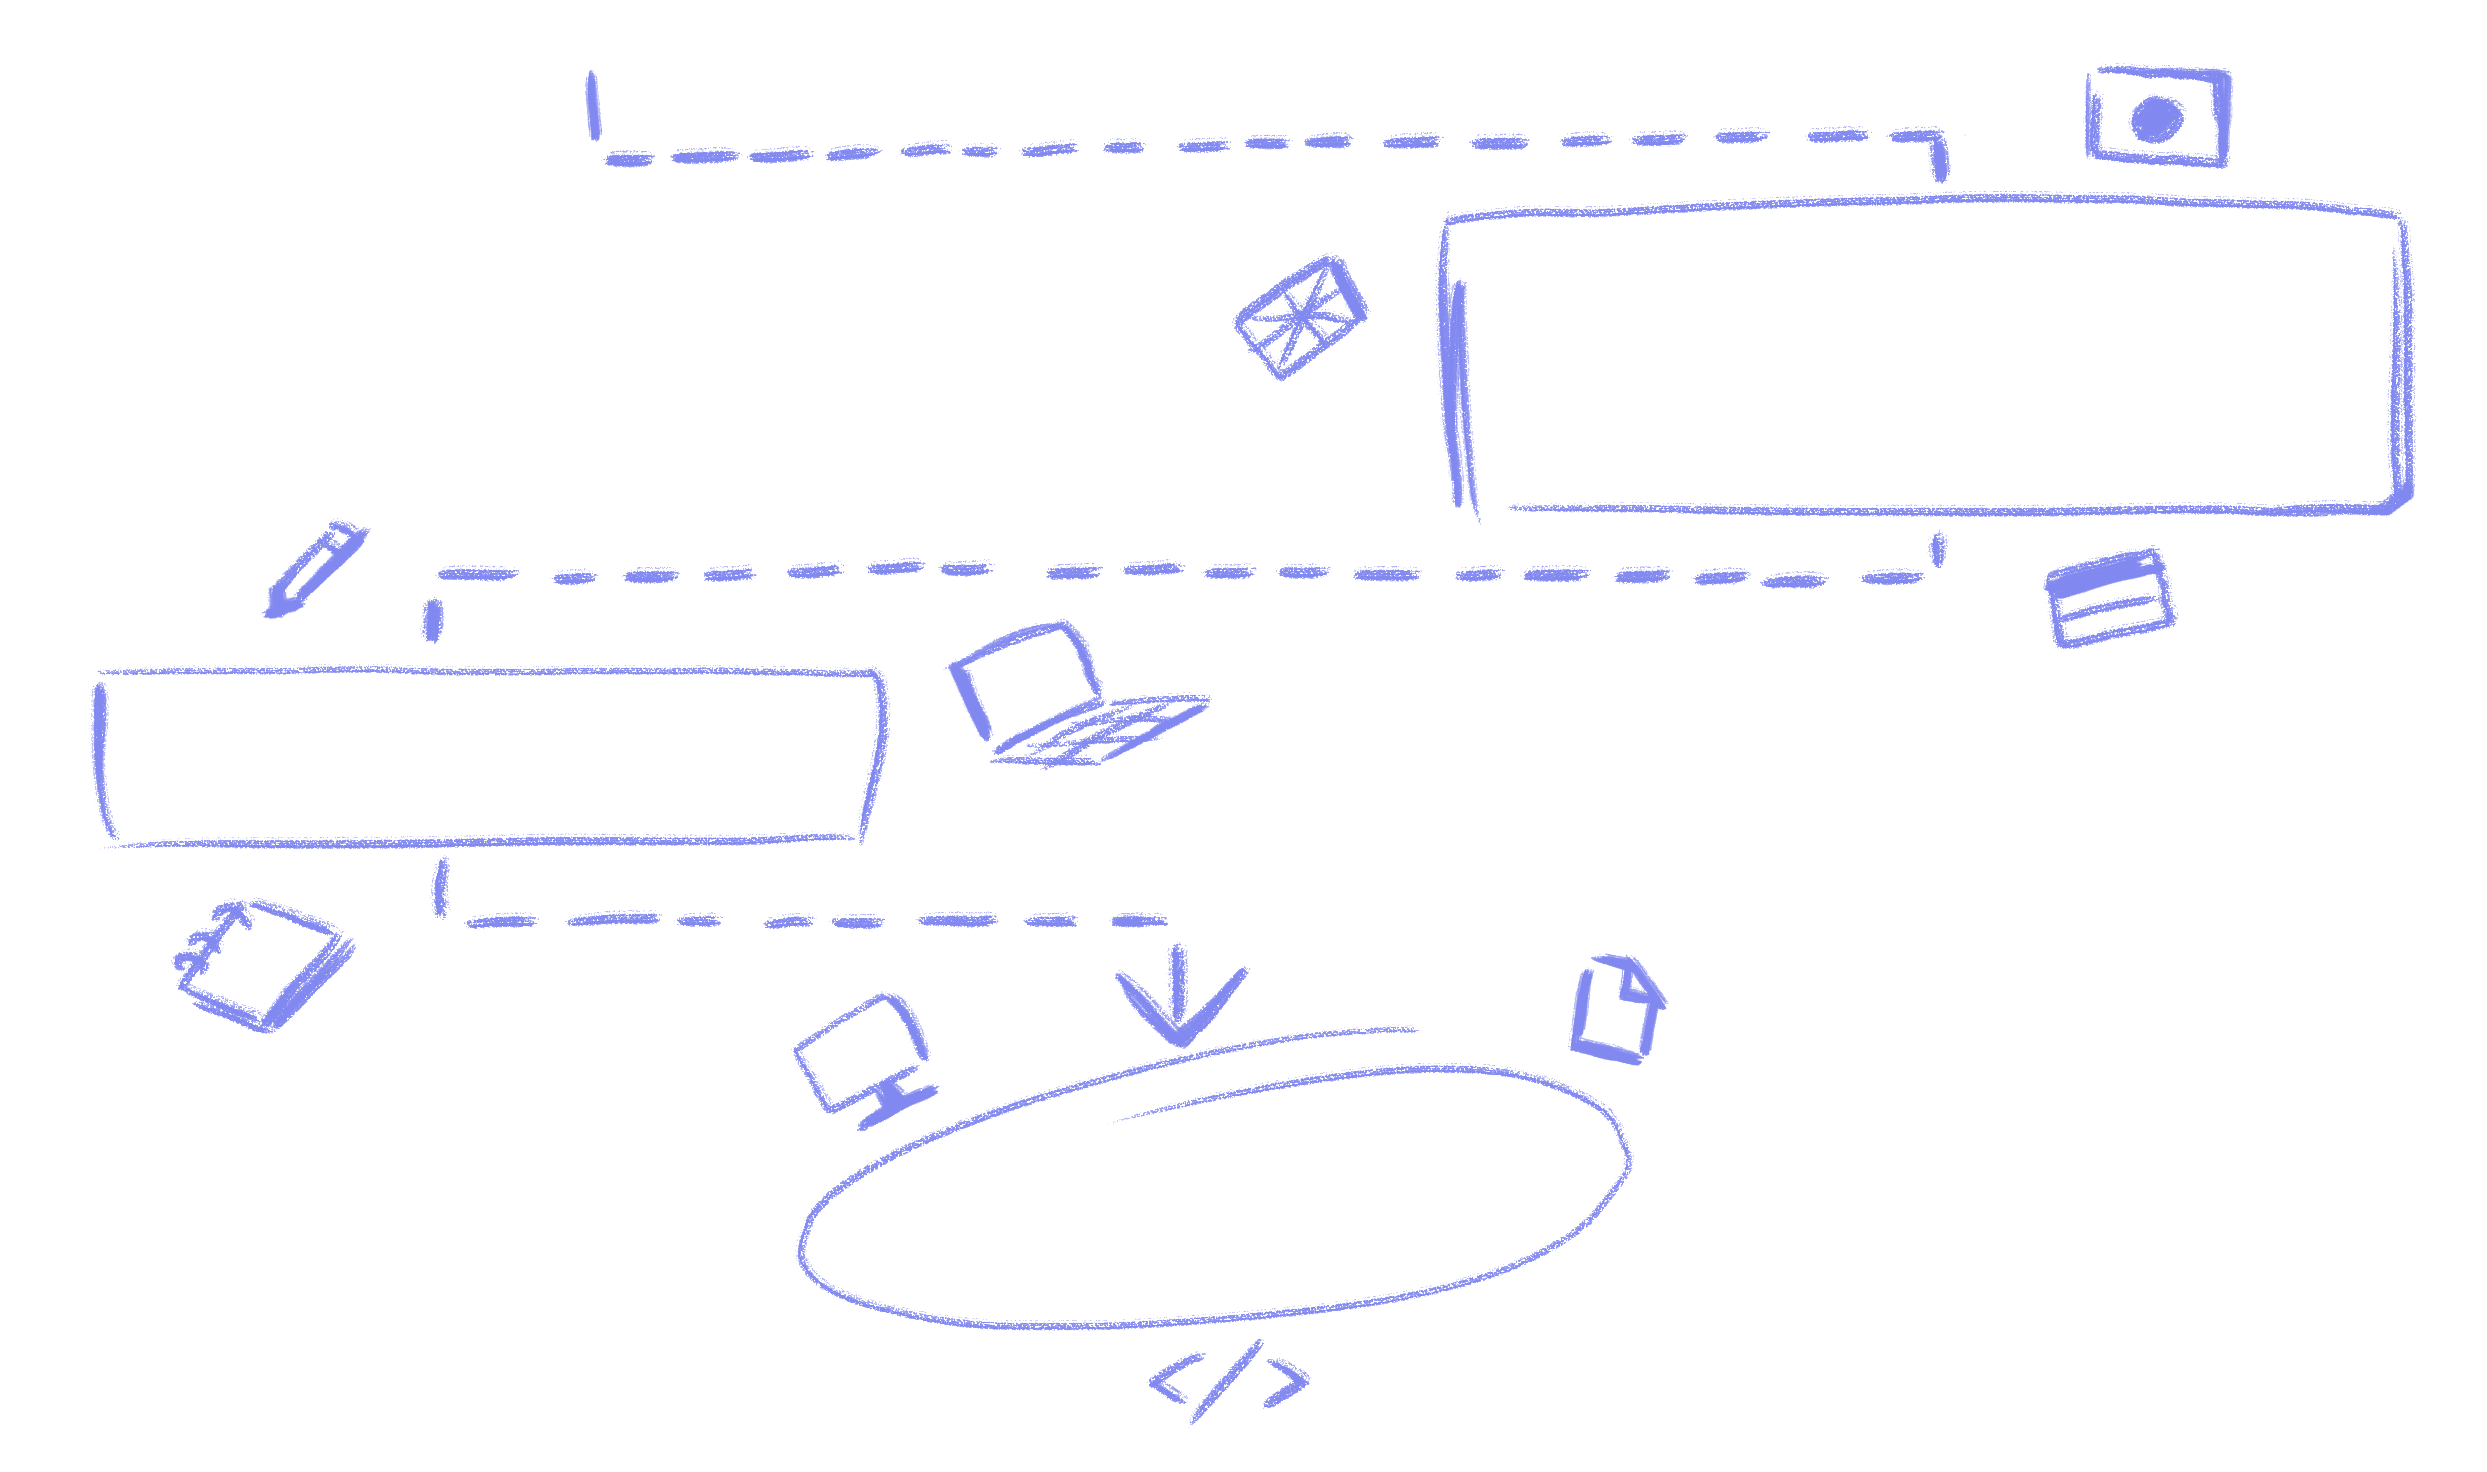
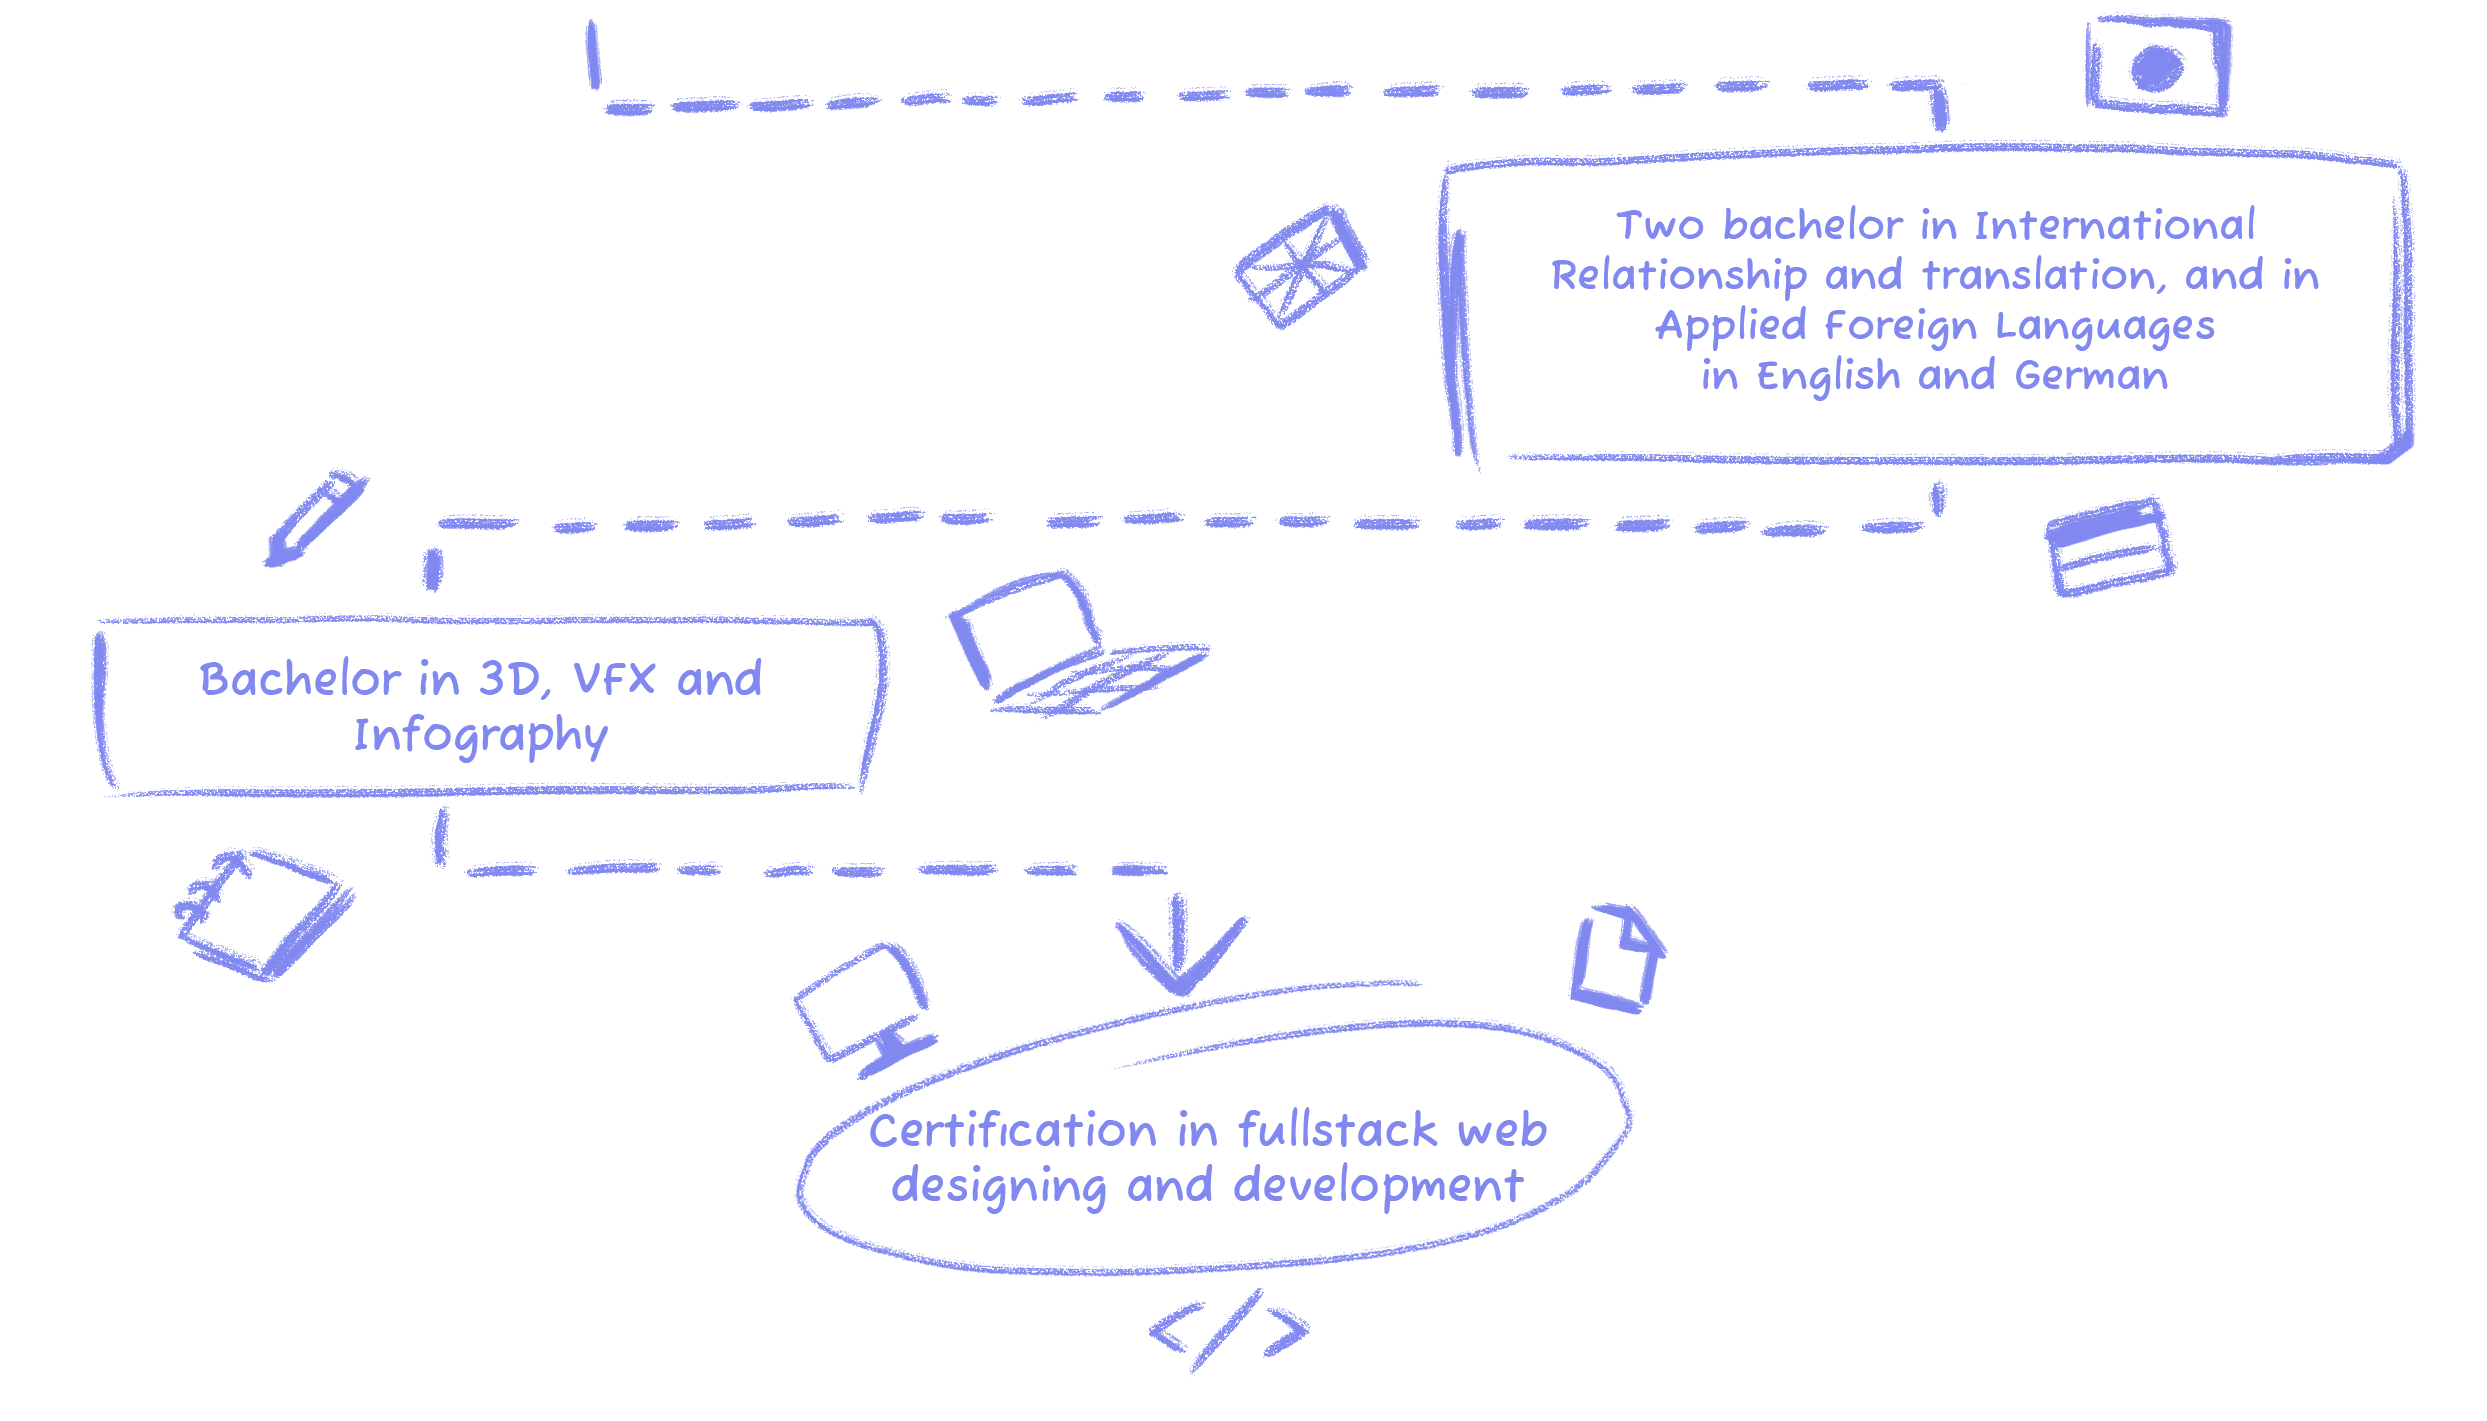
image about fix

Changed region(s): [[0.031, 0.0, 0.9908, 0.9599]]

diff --git a/portfolio-2026/src/styles/Home_services.css b/portfolio-2026/src/styles/Home_services.css
@@ -2,7 +2,7 @@
   background: var(--color-darkindigo);
   width: 100%;
   display: flex;
-  justify-content: center;
+  /* justify-content: center; */
 }
 
 .services-container {